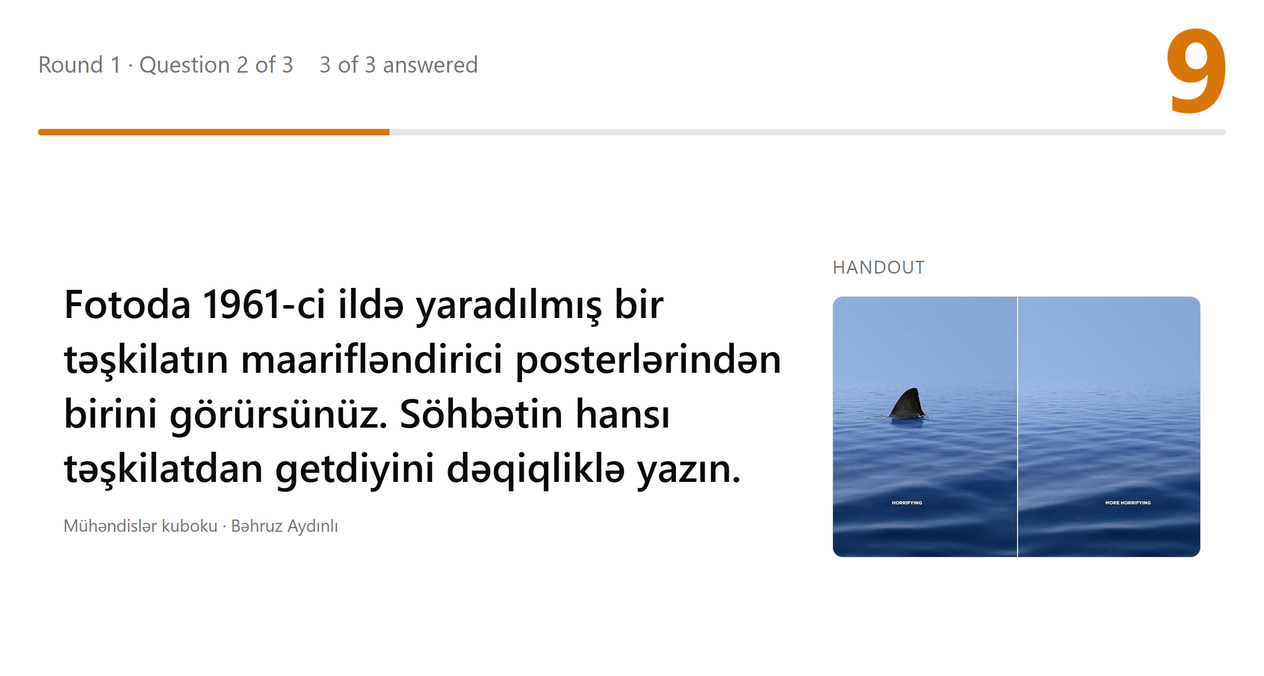
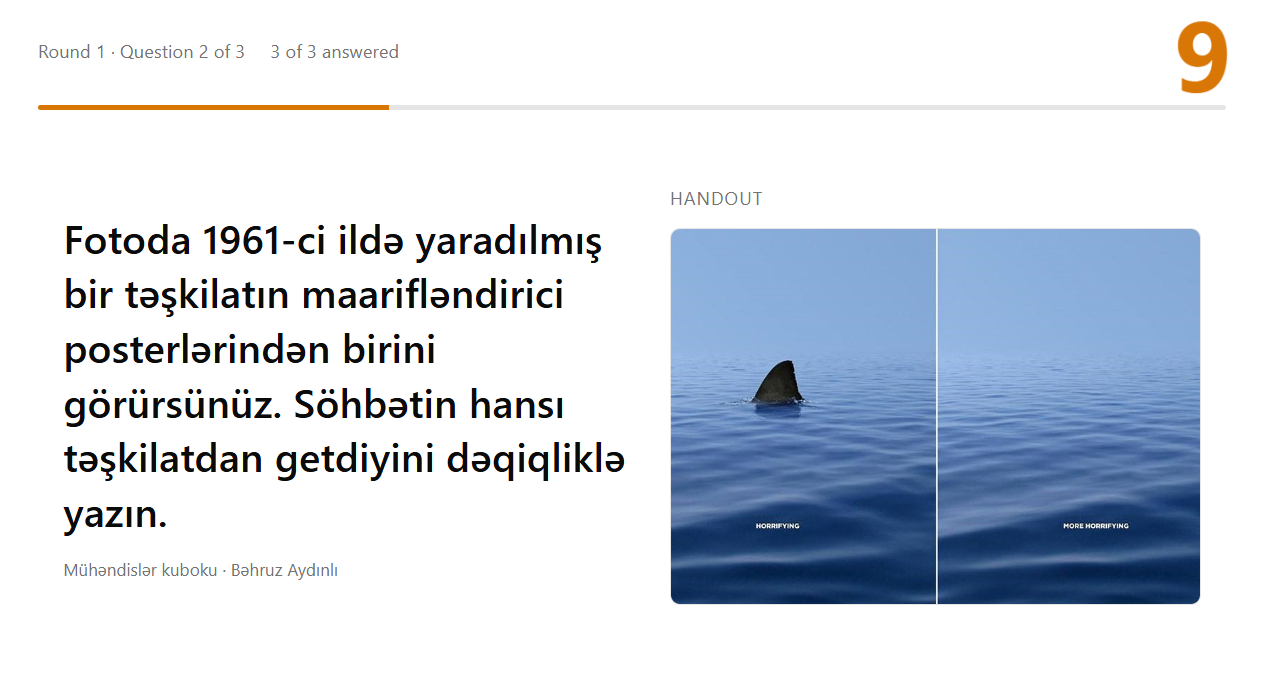
Party answers at the end of the round, smaller TV top bar

diff --git a/app/ui/Game.jsx b/app/ui/Game.jsx
@@ -62,7 +62,7 @@ const MODE_DESCRIPTIONS = {
 const TIMING_HELP = {
   host: "Between questions the next question's number fills the screen; Space skips the wait. Auto-start starts each question's timer as soon as the question appears.",
   play: "Between questions the next question's number fills the screen; Space skips the wait. Each question's timer starts as soon as it appears.",
-  party: "Between questions the next question's number fills every screen. Autoplay moves on to the next question once the answer has been shown for that many seconds; Pause holds it. A blank answer scores 0; a wrong one scores the points for a wrong answer (use a negative number as a penalty).",
+  party: "Between questions the next question's number fills every screen. Autoplay moves on to the next question once the answer has been shown for that many seconds; Pause holds it. Showing the answers at the end keeps every answer and score hidden until the last question, then shows the answers one by one. A blank answer scores 0; a wrong one scores the points for a wrong answer (use a negative number as a penalty).",
 };
 
 function RoundSettings({ mode, questions, lists, listId, onListIdChange, onNewSet, settings, onSettingsChange, action }) {
@@ -107,6 +107,22 @@ function RoundSettings({ mode, questions, lists, listId, onListIdChange, onNewSe
         </RadioGroup>
       )}
       <div className="flex flex-wrap items-end gap-x-6 gap-y-4 rounded-lg border p-4">
+        {mode === 'party' && (
+          <div className="grid basis-full gap-2">
+            <Label>Show the answers</Label>
+            <RadioGroup value={settings.isRevealAtEnd ? 'end' : 'each'} onValueChange={value => onSettingsChange({ isRevealAtEnd: value === 'end' })}
+              className="flex flex-wrap gap-x-6 gap-y-2">
+              <div className="flex items-center gap-2">
+                <RadioGroupItem id="reveal-after-each" value="each" />
+                <Label htmlFor="reveal-after-each" className="font-normal">After each question</Label>
+              </div>
+              <div className="flex items-center gap-2">
+                <RadioGroupItem id="reveal-at-end" value="end" />
+                <Label htmlFor="reveal-at-end" className="font-normal">At the end of the round</Label>
+              </div>
+            </RadioGroup>
+          </div>
+        )}
         <NumberField id="seconds-per-question" label="Seconds per question" value={settings.secondsPerQuestion} min={10} max={600} step={5}
           onChange={secondsPerQuestion => onSettingsChange({ secondsPerQuestion })} />
         <NumberField id="seconds-between-questions" label="Seconds between questions" value={settings.secondsBetweenQuestions}
@@ -220,6 +236,7 @@ export default function Game({ isVisible, lists, listId, onListIdChange, isAiRea
   const [pointsForCorrect, setPointsForCorrect] = useState(1);
   const [pointsForWrong, setPointsForWrong] = useState(0);
   const [isAutoplay, setIsAutoplay] = useState(false);
+  const [isRevealAtEnd, setIsRevealAtEnd] = useState(false);
   const [secondsOnAnswer, setSecondsOnAnswer] = useState(DEFAULT_SECONDS_ON_ANSWER);
   const [randomCount, setRandomCount] = useState(() => Number(localStorage.getItem('randomQuestionCount')) || DEFAULT_RANDOM_COUNT);
   const [includeOwn, setIncludeOwn] = useState(() => localStorage.getItem('includeOwnQuestions') === '1');
@@ -289,7 +306,7 @@ export default function Game({ isVisible, lists, listId, onListIdChange, isAiRea
     pickQuestions();
   };
   const roundSettingsValues = {
-    secondsPerQuestion, secondsBetweenQuestions, shouldAutoStartTimer, pointsForCorrect, pointsForWrong, isAutoplay, secondsOnAnswer, randomCount, includeOwn,
+    secondsPerQuestion, secondsBetweenQuestions, shouldAutoStartTimer, pointsForCorrect, pointsForWrong, isAutoplay, secondsOnAnswer, randomCount, includeOwn, isRevealAtEnd,
   };
   const changeRoundSettings = changes => {
     if ('secondsPerQuestion' in changes) {
@@ -301,6 +318,7 @@ export default function Game({ isVisible, lists, listId, onListIdChange, isAiRea
     if ('pointsForCorrect' in changes) setPointsForCorrect(changes.pointsForCorrect);
     if ('pointsForWrong' in changes) setPointsForWrong(changes.pointsForWrong);
     if ('isAutoplay' in changes) setIsAutoplay(changes.isAutoplay);
+    if ('isRevealAtEnd' in changes) setIsRevealAtEnd(changes.isRevealAtEnd);
     if ('secondsOnAnswer' in changes) setSecondsOnAnswer(changes.secondsOnAnswer);
     if ('randomCount' in changes) {
       setRandomCount(changes.randomCount);
@@ -327,7 +345,7 @@ export default function Game({ isVisible, lists, listId, onListIdChange, isAiRea
   };
   const startPartyRound = () => api.partyStartRound({
     uids: questions.map(question => question.uid), secondsPerQuestion, secondsBetweenQuestions, pointsForCorrect, pointsForWrong,
-    secondsOnAnswer: isAutoplay ? secondsOnAnswer : 0,
+    secondsOnAnswer: isAutoplay ? secondsOnAnswer : 0, revealAtEnd: isRevealAtEnd,
   });
   const partyBackToLobby = async keepScores => {
     await api.partyBackToLobby(keepScores);

diff --git a/app/party.js b/app/party.js
@@ -49,6 +49,7 @@ class PartyGame {
     this.rules = { ...DEFAULT_RULES };
     this.phase = 'lobby';
     this.index = -1;
+    this.revealedCount = 0;
     this.endsAt = null;
     this.timer = null;
     this.pausedRemainingMs = null;
@@ -91,11 +92,12 @@ class PartyGame {
     this.changed();
   }
 
-  startRound({ questions, secondsPerQuestion, secondsBetweenQuestions, secondsOnAnswer = 0, pointsForCorrect, pointsForWrong }) {
+  startRound({ questions, secondsPerQuestion, secondsBetweenQuestions, secondsOnAnswer = 0, pointsForCorrect, pointsForWrong, revealAtEnd = false }) {
     if (this.phase !== 'lobby' || !questions.length) return;
     this.questions = questions;
     this.answers = questions.map(() => new Map());
-    this.rules = { secondsPerQuestion, secondsBetweenQuestions, secondsOnAnswer, pointsForCorrect, pointsForWrong };
+    this.rules = { secondsPerQuestion, secondsBetweenQuestions, secondsOnAnswer, pointsForCorrect, pointsForWrong, revealAtEnd: !!revealAtEnd };
+    this.revealedCount = 0;
     this.round += 1;
     this.goTo(0);
   }
@@ -191,7 +193,14 @@ class PartyGame {
       answer.isCorrect = answer.verdict === 'correct';
     }
     if (this.phase !== 'judging' || this.answers !== answers) return;
+    if (this.rules.revealAtEnd && position + 1 < this.questions.length) return this.goTo(position + 1);
+    if (this.rules.revealAtEnd) this.index = 0;
+    this.showAnswer();
+  }
+
+  showAnswer() {
     this.phase = 'reveal';
+    this.revealedCount = this.index + 1;
     if (this.rules.secondsOnAnswer) this.schedule(this.rules.secondsOnAnswer, () => this.next());
     this.changed();
   }
@@ -207,13 +216,16 @@ class PartyGame {
   next() {
     if (this.phase !== 'reveal') return;
     if (this.index + 1 >= this.questions.length) return this.finish();
-    this.goTo(this.index + 1);
+    if (!this.rules.revealAtEnd) return this.goTo(this.index + 1);
+    this.index += 1;
+    this.showAnswer();
   }
 
   finish() {
     if (this.phase === 'lobby' || this.phase === 'finished') return;
     this.stopTimer();
     this.phase = 'finished';
+    this.revealedCount = this.questions.length;
     this.changed();
   }
 
@@ -226,7 +238,7 @@ class PartyGame {
   leaderboard() {
     const scored = [...this.players.values()]
       .map(p => {
-        const roundScore = this.answers.reduce((sum, answers) => sum + this.pointsFor(answers.get(p.id)), 0);
+        const roundScore = this.answers.slice(0, this.revealedCount).reduce((sum, answers) => sum + this.pointsFor(answers.get(p.id)), 0);
         return { id: p.id, name: p.name, roundScore, score: (this.bankedScores.get(p.id) ?? 0) + roundScore };
       })
       .sort((a, b) => b.score - a.score || a.name.localeCompare(b.name));

diff --git a/app/party/tv.html b/app/party/tv.html
@@ -34,15 +34,15 @@ body { font-family: "Segoe UI", SamsungOne, "Tizen Sans", Roboto, Arial, sans-se
 .board .score { width: 3em; text-align: right; font-weight: 700; }
 .standings { -webkit-flex: 1; flex: 1; display: -webkit-flex; display: flex; -webkit-flex-direction: column; flex-direction: column; -webkit-justify-content: center; justify-content: center; width: 70vw; margin: 0 auto; }
 .standings .title { margin-bottom: 1.5vw; }
-.top { display: -webkit-flex; display: flex; -webkit-align-items: center; align-items: center; height: 9vw; padding: 1vw 3vw 0; }
+.top { display: -webkit-flex; display: flex; -webkit-align-items: center; align-items: center; height: 7.3vw; padding: .8vw 3vw 0; font-size: .81em; }
 .top > * + * { margin-left: 2vw; }
-.clock { margin-left: auto !important; font-size: 4.5vw; font-weight: 700; line-height: 1; }
+.clock { margin-left: auto !important; font-size: 3.65vw; font-weight: 700; line-height: 1; }
 .clock .label { font-size: .45em; color: #a3a3a3; margin-right: .8em; }
-.clock.final { font-size: 8vw; }
+.clock.final { font-size: 6.5vw; }
 .clock.pulse { -webkit-animation: pulse .6s ease-out; animation: pulse .6s ease-out; }
 @-webkit-keyframes pulse { from { -webkit-transform: scale(1.35); } to { -webkit-transform: scale(1); } }
 @keyframes pulse { from { transform: scale(1.35); } to { transform: scale(1); } }
-.progress { height: .5vw; margin: 1.2vw 3vw 0; background: #262626; border-radius: 1vw; overflow: hidden; }
+.progress { height: .4vw; margin: .97vw 3vw 0; background: #262626; border-radius: 1vw; overflow: hidden; }
 .progress div { height: 100%; width: 0; background: #fafafa; -webkit-transition: width .2s linear; transition: width .2s linear; }
 .progress.low div { background: #fbbf24; }
 .question { -webkit-flex: 1; flex: 1; min-height: 0; overflow: hidden; display: -webkit-flex; display: flex; -webkit-align-items: flex-start; align-items: flex-start; padding: 2vw 5vw; }

diff --git a/app/ui/Party.jsx b/app/ui/Party.jsx
@@ -402,7 +402,7 @@ export default function PartyScreen({ party, isVisible, lobbySettings, onBackToL
             <span className={cn('min-w-24 text-4xl font-semibold tabular-nums', party.phase !== 'question' && 'text-muted-foreground',
               isRunningOut && 'text-amber-500')}>{formatClock(wholeSecondsLeft)}</span>
           )}
-          {party.phase === 'reveal' && hasRunningClock && <span className="text-lg text-muted-foreground">until {isLastQuestion ? 'the round results' : 'the next question'} (autoplay)</span>}
+          {party.phase === 'reveal' && hasRunningClock && <span className="text-lg text-muted-foreground">until {isLastQuestion ? 'the round results' : party.rules.revealAtEnd ? 'the next answer' : 'the next question'} (autoplay)</span>}
           {party.phase === 'waiting' && (
             <Button size="lg" onClick={() => api.partySkipWait()}><SkipForwardIcon />Skip wait<Kbd className={KEY_HINT_ON_PRIMARY_BUTTON}>Space</Kbd></Button>
           )}
@@ -418,7 +418,7 @@ export default function PartyScreen({ party, isVisible, lobbySettings, onBackToL
           {party.phase === 'judging' && <span className="flex items-center gap-2 text-lg"><Spinner />Checking answers…</span>}
           {party.phase === 'reveal' && (
             <Button size="lg" className="ml-auto" onClick={() => api.partyNext()}>
-              {isLastQuestion ? <><TrophyIcon />Round results</> : <>Next question<ArrowRightIcon /></>}
+              {isLastQuestion ? <><TrophyIcon />Round results</> : <>{party.rules.revealAtEnd ? 'Next answer' : 'Next question'}<ArrowRightIcon /></>}
               <Kbd className={KEY_HINT_ON_PRIMARY_BUTTON}>Enter</Kbd>
             </Button>
           )}

diff --git a/app/party.test.js b/app/party.test.js
@@ -236,3 +236,19 @@ test('phones wait for the host while an answer is not decided yet', async () => 
   assert.deepEqual([game.playerView(aysel).reveal.isPending, game.playerView(aysel).reveal.isCorrect], [false, true]);
   game.finish();
 });
+
+test('answers can wait for the end of the round, then show one by one without leaking scores before', async () => {
+  const game = newGame();
+  const aysel = game.join('Aysel');
+  game.startRound({ ...ROUND, revealAtEnd: true });
+  game.submitAnswer(aysel.token, 'Bakı');
+  await game.closeAnswers();
+  assert.deepEqual([game.phase, game.index, game.playerView(aysel).me.score, game.playerView(aysel).reveal], ['question', 1, 0, null]);
+  game.submitAnswer(aysel.token, 'Nizami Gəncəvi');
+  await game.closeAnswers();
+  assert.deepEqual([game.phase, game.index, game.tvView().question.answer, game.playerView(aysel).me.score], ['reveal', 0, 'Bakı', 1]);
+  game.next();
+  assert.deepEqual([game.phase, game.index, game.tvView().question.answer, game.playerView(aysel).me.score], ['reveal', 1, 'Nizami Gəncəvi', 2]);
+  game.next();
+  assert.equal(game.phase, 'finished');
+});

diff --git a/docs/app.md b/docs/app.md
@@ -71,7 +71,9 @@ npm test         # offline tests for the scraper, search, ranking, edits, data u
   AI search checks every answer as in Play mode (with AI search off the host marks each one, and phones show
   *The host is checking* until then); phones then show their verdict, the answer and the
   leaderboard, and the host sees every answer and can overrule it. The host sets the points for a correct
-  answer and for a wrong one (for example −1; a blank answer always scores 0). After the last question the
+  answer and for a wrong one (for example −1; a blank answer always scores 0). *Show the answers: At the end of
+  the round* runs the questions back to back and keeps every answer and score hidden; after the last question the
+  host steps through the answers with *Next answer*, and the scores grow as they are revealed. After the last question the
   round's leaderboard appears: *Next round* keeps the scores and *New game* resets them; either way players
   stay connected and the host picks the next questions in the lobby. Random questions never repeat one already
   shown while the party is open (lists play as chosen). Players can only join and send answers:

diff --git a/README.md b/README.md
@@ -15,8 +15,9 @@ game from the app. Bring your own questions or use the bundled question bank.
   leaderboard. Typed answers are checked by a local AI model, or marked by the host when AI search is off,
   and the host can overrule any verdict.
 - **Any TV**: a TV window on a second screen, Miracast, or the web browser of a Samsung Smart TV.
-- **Host controls**: points for right and wrong answers, pause, autoplay, several rounds with or without
-  keeping the scores, and no question shown twice in one party.
+- **Host controls**: points for right and wrong answers, pause, autoplay, answers shown after each question or
+  all at the end of the round, several rounds with or without keeping the scores, and no question shown twice
+  in one party.
 - **Your own questions**: write them on the *Custom* tab, add a handout picture and an answer picture,
   collect them in lists and play a list in order.
 - **Game helper and solo play**: a timer for the host, or play alone and mark your answers yourself or let the
